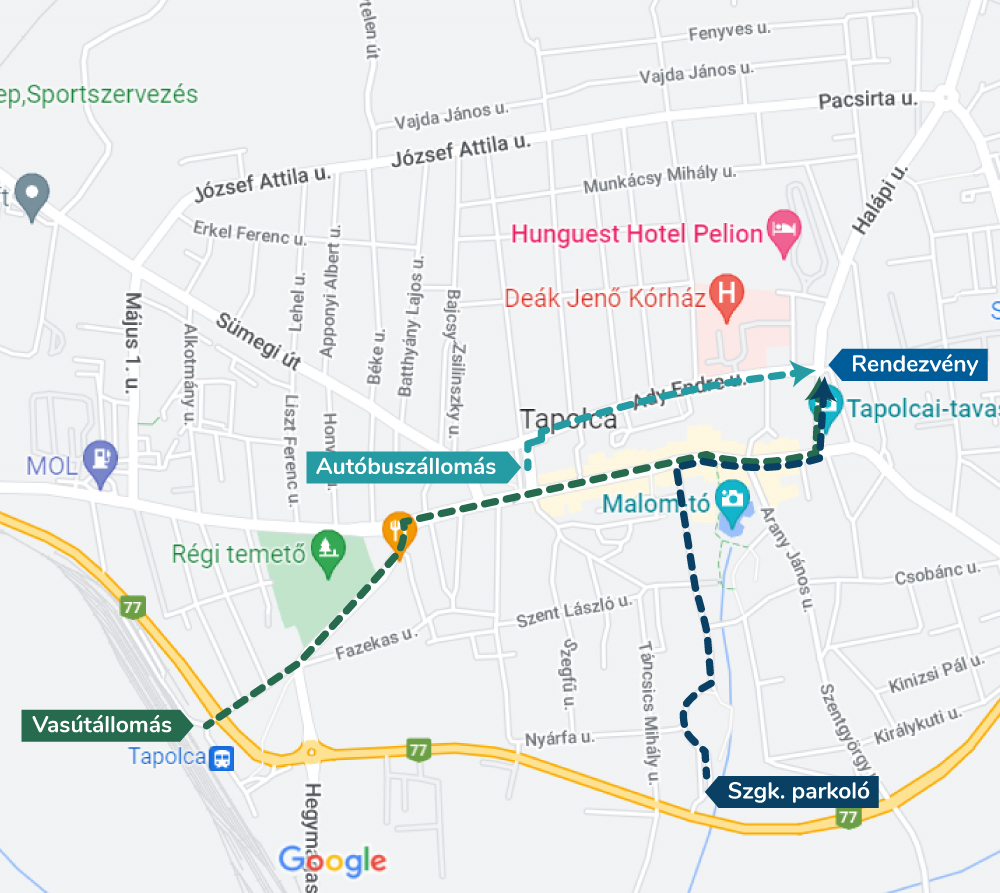
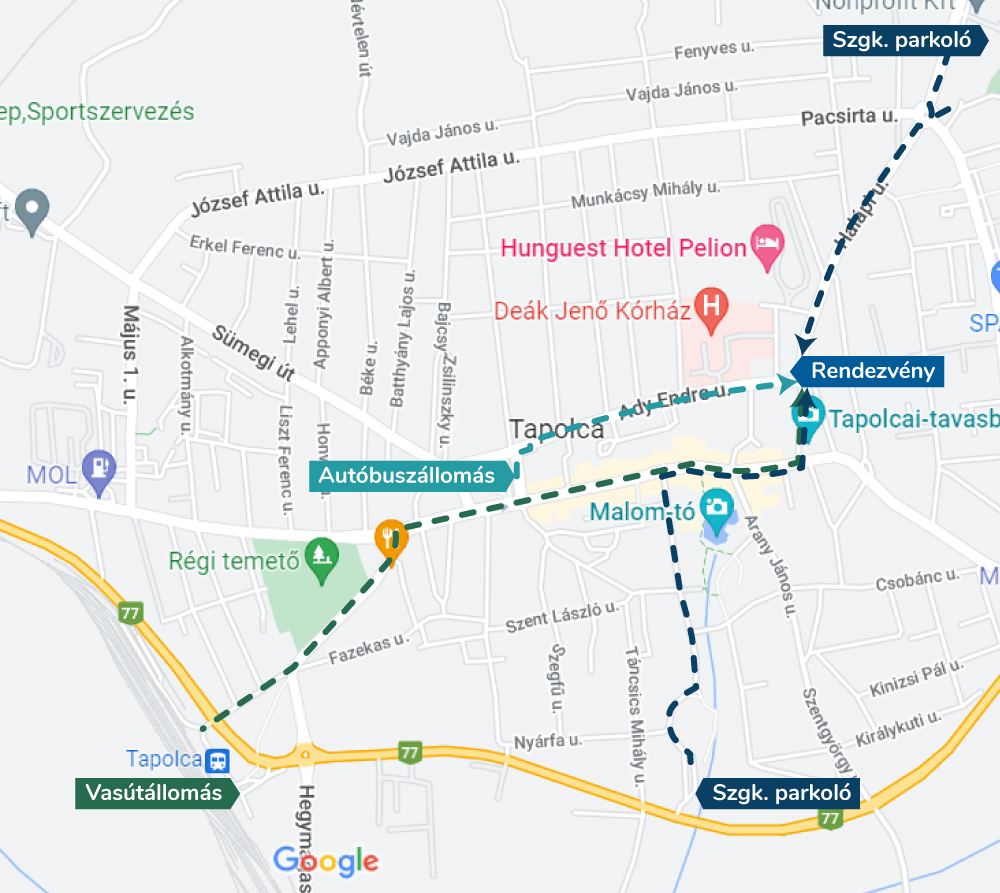
add new parking

diff --git a/src/components/Approach.js b/src/components/Approach.js
@@ -35,9 +35,10 @@ const Approach = ({ currentLanguage }) => {
             <br />
             <strong>Gépjárművel</strong>
             <p>
-              A 77-es számú főúton érhető el a város Veszprém és a 84-es út
+              Ajánlott parkoló: Halápi úti körforgalom melletti zöld területen.
+              További parkolási lehetőség: A 77-es számú főúton érhető el a város Veszprém és a 84-es út
               felől is. A Tapolca-patak és a 77-es számú főút találkozásánál van
-              lehetőség személygépkocsival parkolni. Innen néhány perc sétával
+              lehetőség személygépkocsival parkolni. Ezektől a parkolóktól néhány perc sétával
               érhető el a találkozó helyszíne.
             </p>
             <br />
@@ -201,10 +202,11 @@ const Approach = ({ currentLanguage }) => {
             <br />
             <strong>Approaching by car</strong>
             <p>
-              Tapolca can be reached from the east (from Veszprém) and from the
+              Recommended parking: in the green area next to the Halápi road roundabout.
+              Additional parking: Tapolca can be reached from the east (from Veszprém) and from the
               west (from route 84) on route 77. At the intersection of the south
               bypass route 77 and the Tapolca-creek, there is a high capacity
-              car park at the visitor's service. From here the event can be
+              car park at the visitor's service. From these parkings the event can be
               reached with a couple of minutes walk.
             </p>
             <br />

diff --git a/src/components/Map.js b/src/components/Map.js
@@ -13,7 +13,9 @@ const Map = () => {
   const center = { lat: 46.8828112139076, lng: 17.436028632655084 };
 
   const event = { lat: 46.883774, lng: 17.442933 };
-  const parking = { lat: 46.87779910987866, lng: 17.440507154350293 };
+  const parking1 = { lat: 46.890061, lng: 17.447153 };
+  const parking2 = { lat: 46.889035, lng: 17.447153 };
+  const parking3 = { lat: 46.87779910987866, lng: 17.440507154350293 };
   const busStation = { lat: 46.8828112139076, lng: 17.436028632655084 };
   const trainStation = { lat: 46.87752132162177, lng: 17.429812998180616 };
 
@@ -52,7 +54,25 @@ const Map = () => {
           }}
         ></Marker>
         <Marker
-          position={parking}
+          position={parking1}
+          icon={{
+            // eslint-disable-next-line no-undef
+            path: google.maps.SymbolPath.BACKWARD_CLOSED_ARROW,
+            strokeColor: "#094064",
+            scale: 4,
+          }}
+        />
+        <Marker
+          position={parking2}
+          icon={{
+            // eslint-disable-next-line no-undef
+            path: google.maps.SymbolPath.BACKWARD_CLOSED_ARROW,
+            strokeColor: "#094064",
+            scale: 4,
+          }}
+        />
+        <Marker
+          position={parking3}
           icon={{
             // eslint-disable-next-line no-undef
             path: google.maps.SymbolPath.BACKWARD_CLOSED_ARROW,
